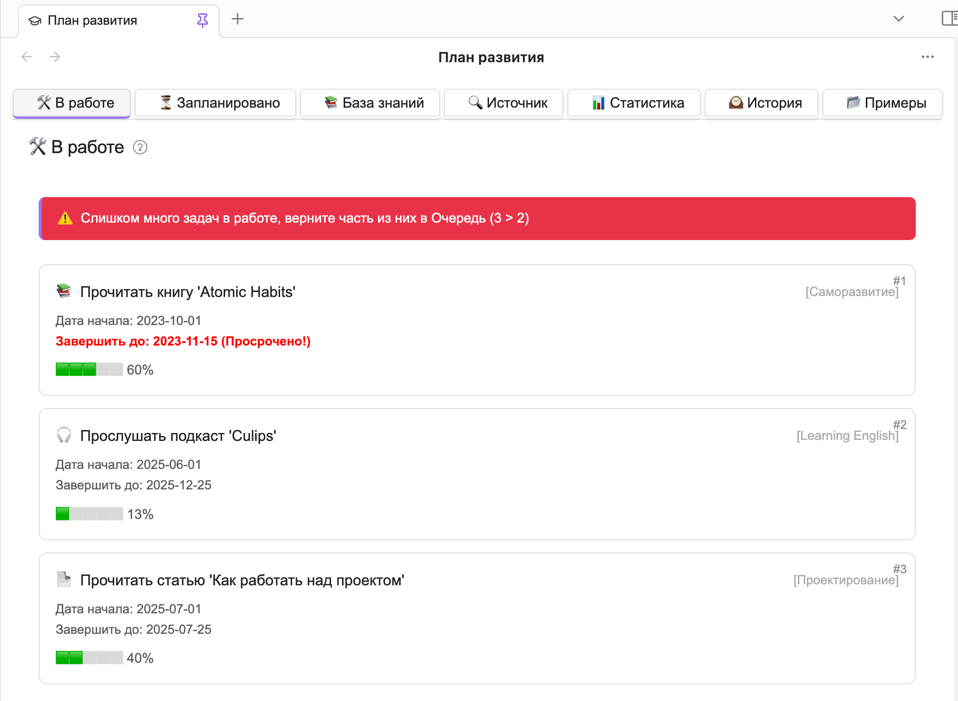
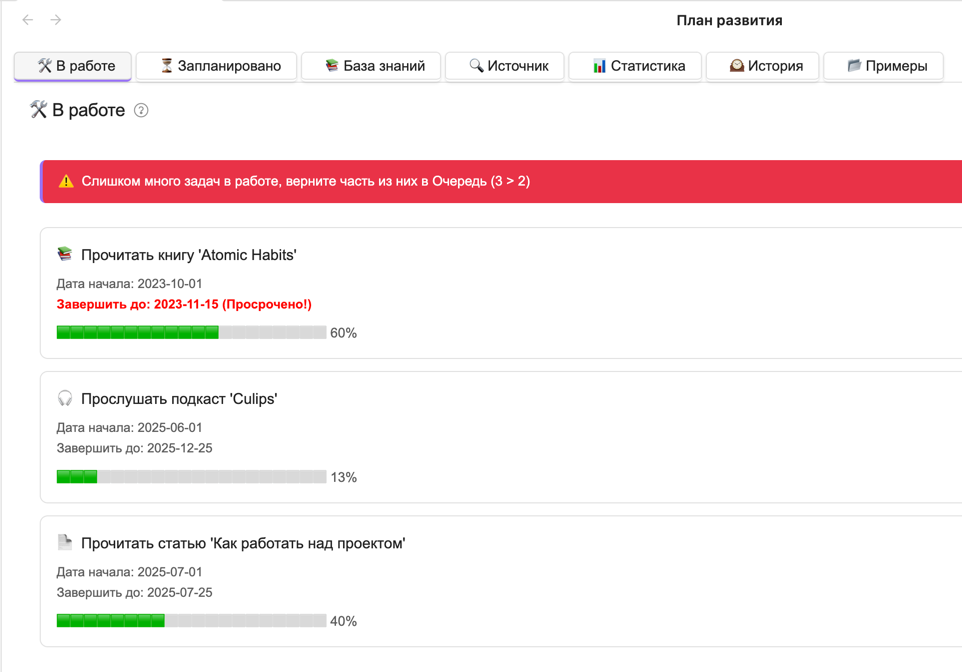
Add sources

diff --git a/styles.css b/styles.css
@@ -512,3 +512,115 @@
     opacity: 0.6;
     transition: opacity 0.2s ease;
 }
+
+/* Основные стили для контейнера источников */
+/* Основные стили для контейнера источников */
+.sources-container {
+  display: grid;
+  grid-template-columns: repeat(auto-fill, minmax(200px, 1fr));
+  gap: 12px;
+  padding: 10px;
+}
+
+/* Стили карточки источника */
+.source-card {
+  position: relative;
+  padding: 16px;
+  border-radius: 8px;
+  background: var(--background-primary);
+  border: 1px solid var(--background-modifier-border);
+  cursor: pointer;
+  transition: all 0.2s ease;
+  display: flex;
+  align-items: center;
+  gap: 12px;
+  min-width: 0; /* Для правильного обрезания текста */
+  width: auto; /* Ширина по содержимому */
+  max-width: 100%; /* Не шире контейнера */
+}
+
+.source-card:hover {
+  background: var(--background-secondary);
+  box-shadow: 0 2px 4px rgba(0,0,0,0.05);
+  transform: translateY(-1px);
+}
+
+/* Иконка источника */
+.source-icon {
+  font-size: 1.4em;
+  width: 24px;
+  height: 24px;
+  display: flex;
+  align-items: center;
+  justify-content: center;
+  flex-shrink: 0;
+}
+
+/* Название источника */
+.source-name {
+  font-weight: 500;
+  color: var(--text-normal);
+  font-size: 0.95em;
+  white-space: nowrap;
+  overflow: hidden;
+  text-overflow: ellipsis;
+  flex-grow: 1;
+}
+
+/* Адаптация для разных размеров экрана */
+@media (max-width: 900px) {
+  .sources-container {
+    grid-template-columns: repeat(auto-fill, minmax(160px, 1fr));
+    gap: 10px;
+  }
+}
+
+@media (max-width: 600px) {
+  .sources-container {
+    grid-template-columns: repeat(auto-fill, minmax(120px, 1fr));
+    gap: 8px;
+    padding: 8px;
+  }
+
+  .source-card {
+    padding: 12px;
+    gap: 8px;
+  }
+
+  .source-icon {
+    font-size: 1.2em;
+    width: 20px;
+    height: 20px;
+  }
+
+  .source-name {
+    font-size: 0.85em;
+  }
+}
+
+/* Для очень узких экранов - одна колонка */
+@media (max-width: 400px) {
+  .sources-container {
+    grid-template-columns: 1fr;
+  }
+}
+
+/* Анимация при наведении */
+@keyframes sourceCardHover {
+  from { transform: translateY(0); }
+  to { transform: translateY(-2px); }
+}
+
+.source-card:hover {
+  animation: sourceCardHover 0.2s ease forwards;
+}
+
+/* Стили для пользовательских источников */
+.source-custom {
+  border-left: 3px solid var(--interactive-accent);
+}
+
+/* Подсветка активного источника */
+.source-card:active {
+  transform: scale(0.98);
+}

diff --git a/main/source.ts b/main/source.ts
@@ -1,0 +1,59 @@
+import { t } from './localization';
+import { openTaskFile, openOrCreateSourceFile, getTaskTypeIcon } from './common';
+import { PersonalDevelopmentPlanSettings } from './../settings/settings';
+import { App, TFile, Vault } from 'obsidian';
+
+interface SourceItem {
+    type: string;
+    name: string;
+    icon: string;
+    filePath: string;
+}
+
+export async function getSourcesElement(settings: PersonalDevelopmentPlanSettings): Promise<HTMLElement> {
+    // Создаем контейнер для всех источников
+    const container = document.createElement('div');
+    container.className = 'sources-container';
+
+    // Создаем стандартные источники
+    const sourceItems: SourceItem[] = settings.materialTypes
+        .filter(material => material.enabled)
+        .sort((a, b) => a.order - b.order)
+        .map(material => ({
+            type: material.id,
+            name: material.name,
+            icon: getTaskTypeIcon(material.id),
+            filePath: `${settings.folderPath}/Sources/${material.id}.md`
+        }));
+
+    // Создание карточек источников
+    sourceItems.forEach(source => {
+        const sourceCard = document.createElement('div');
+        sourceCard.className = 'source-card';
+
+        const content = `# ${t('sourceItemsList')} "${source.name}"\n\n${t('sourceItemsExample')}`;
+
+        sourceCard.addEventListener('click', async () => {
+            await openOrCreateSourceFile(source.filePath, this.app.vault, content);
+        });
+
+        // Иконка источника
+        const iconSpan = document.createElement('span');
+        iconSpan.className = 'source-icon';
+        iconSpan.textContent = source.icon;
+        sourceCard.appendChild(iconSpan);
+
+        // Название источника
+        const nameSpan = document.createElement('span');
+        nameSpan.className = 'source-name';
+        nameSpan.textContent = source.name;
+        sourceCard.appendChild(nameSpan);
+
+        // Добавляем карточку в контейнер
+        container.appendChild(sourceCard);
+    });
+
+    return container;
+}
+
+

diff --git a/main/localization.ts b/main/localization.ts
@@ -22,6 +22,8 @@ interface TranslationKeys {
     exportToJSONTooltip: string;
     sources: string;
     sourcesTooltip: string;
+    sourceItemsList: string;
+    sourceItemsExample: string;
     statistics: string;
     statisticsTooltip: string;
     history: string;
@@ -110,6 +112,8 @@ const translations: Record<string, TranslationKeys> = {
         knowledgeBaseSection: 'Раздел',
         sources: '🔍 Источник',
         sourcesTooltip: 'Ресурсы для пополнения Базы знаний',
+        sourceItemsList: 'Список источников',
+        sourceItemsExample: '- [ ] Пример источника 1\n- [ ] Пример источника 2',
         statistics: '📊 Статистика',
         statisticsTooltip: 'Анализ прогресса по всем разделам',
         history: '🕰 История',
@@ -194,6 +198,8 @@ const translations: Record<string, TranslationKeys> = {
         knowledgeBaseSection: 'Section',
         sources: '🔍 Sources',
         sourcesTooltip: 'Resources for filling the Knowledge Base',
+        sourceItemsList: 'Source Items',
+        sourceItemsExample: '- [ ] Example Source 1\n- [ ] Example Source 2',
         statistics: '📊 Statistics',
         statisticsTooltip: 'Progress analysis by sections',
         history: '🕰 History',

diff --git a/main/planView.ts b/main/planView.ts
@@ -4,6 +4,7 @@ import { TabDefinition, TAB_DEFINITIONS } from './tabs';
 import { getTasksInProgressElement } from './inProgress';
 import { getPlannedTasksElement } from './planned';
 import { getKnowledgeBaseElement } from './knowledgeBase';
+import { getSourcesElement } from './source';
 import PersonalDevelopmentPlanPlugin from "./../main";
 import { PersonalDevelopmentPlanSettings } from './../settings/settings';
 import { createHelpIcon } from './common';
@@ -105,9 +106,8 @@ export class PlanView extends ItemView {
                 const tasksElement = await getKnowledgeBaseElement(this.plugin.settings);
                 tabContent.appendChild(tasksElement);
             } else if (tab.id === 'sources') {
-                tabContent.createEl('p', {
-                    text: `Здесь будет содержимое раздела "${tab.id}"`
-                });
+                const tasksElement = await getSourcesElement(this.plugin.settings);
+                tabContent.appendChild(tasksElement);
             } else if (tab.id === 'statistics') {
                 tabContent.createEl('p', {
                     text: `Здесь будет содержимое раздела "${tab.id}"`

diff --git a/main/common.ts b/main/common.ts
@@ -29,6 +29,27 @@ export async function openTaskFile(path: string, vault: Vault): Promise<void> {
     }
 }
 
+export async function openOrCreateSourceFile(filePath: string, vault: Vault, content: string): Promise<void> {
+    let file = vault.getAbstractFileByPath(filePath) as TFile;
+
+    if (!file) {
+        // Создаем новый файл, если он не существует
+        const folderPath = filePath.split('/').slice(0, -1).join('/');
+        const fileName = filePath.split('/').pop() || 'Untitled.md';
+
+        // Проверяем и создаем папку, если нужно
+        if (!vault.getAbstractFileByPath(folderPath)) {
+            await vault.createFolder(folderPath);
+        }
+
+        // Создаем файл с базовым содержимым
+        file = await vault.create(filePath, content);
+    }
+
+    // Открываем файл
+    openTaskFile(filePath, vault);
+}
+
 export function getTaskTypeIcon(type: string): string {
     const icons: Record<string, string> = {
         "book": "📚",

diff --git a/main/inProgress.ts b/main/inProgress.ts
@@ -160,7 +160,7 @@ async function getActiveTasks(vault: Vault, settings: PersonalDevelopmentPlanSet
 function generateProgressBar(progress: number): string {
     const filled = '🟩';
     const empty = '⬜';
-    const totalBlocks = 5;
+    const totalBlocks = 20;
     const filledBlocks = Math.round(progress / 100 * totalBlocks);
     return filled.repeat(filledBlocks) + empty.repeat(totalBlocks - filledBlocks);
 }

diff --git a/docs/index.md b/docs/index.md
@@ -123,20 +123,37 @@
 
 ## **Закладка "Источник"**
 
-Ресурсы для поиска новых материалов.
+Интерактивная панель для быстрого доступа к ресурсам различных типов. 
+Каждый тип материала представлен карточкой с иконкой и названием.
 
-### Карточки:
+![Пример интерфейса вкладки "Источник"](images/sources.png)
 
-- 📚 Книга
-- 📄 Статья
-- 🎓 Курс
-- ▶ Видео
-- 🎧 Подкаст
-- ✏ Пользовательский тип
+### Типы материалов
 
-**Функционал:**
+Система поддерживает карточки ресурсов для всех типов из [настроек](settings.md):
 
-- Клик → открытие (или создание, если не существует) `.md`-файла, соответствующему выбранному источнику.
+| Иконка | Тип материала          | Описание                         |
+|--------|------------------------|----------------------------------|
+| 📚     | Книги                  | Литература по теме               |
+| 📄     | Статьи                 | Научные и технические публикации |
+| 🎓     | Курсы                  | Обучающие программы и материалы  |
+| ▶     | Видео                  | Обучающие ролики и лекции        |
+| 🎧     | Подкасты               | Аудиоматериалы и интервью        |
+| ✏     | Пользовательский тип 1 | Настраиваемый тип (из настроек)  |
+| ✏     | Пользовательский тип 2 | Настраиваемый тип (из настроек)  |
+
+При клике на карточку открывается файл ресурсов заданного типа.
+
+### Пример содержимого файла
+
+![Пример содержимого файла курсов](images/sourceCourse.png)
+
+### Настройки
+
+В конфигурации плагина можно:
+
+1. Включить/отключить типы материалов
+2. Изменить порядок отображения
 
 ---
 
